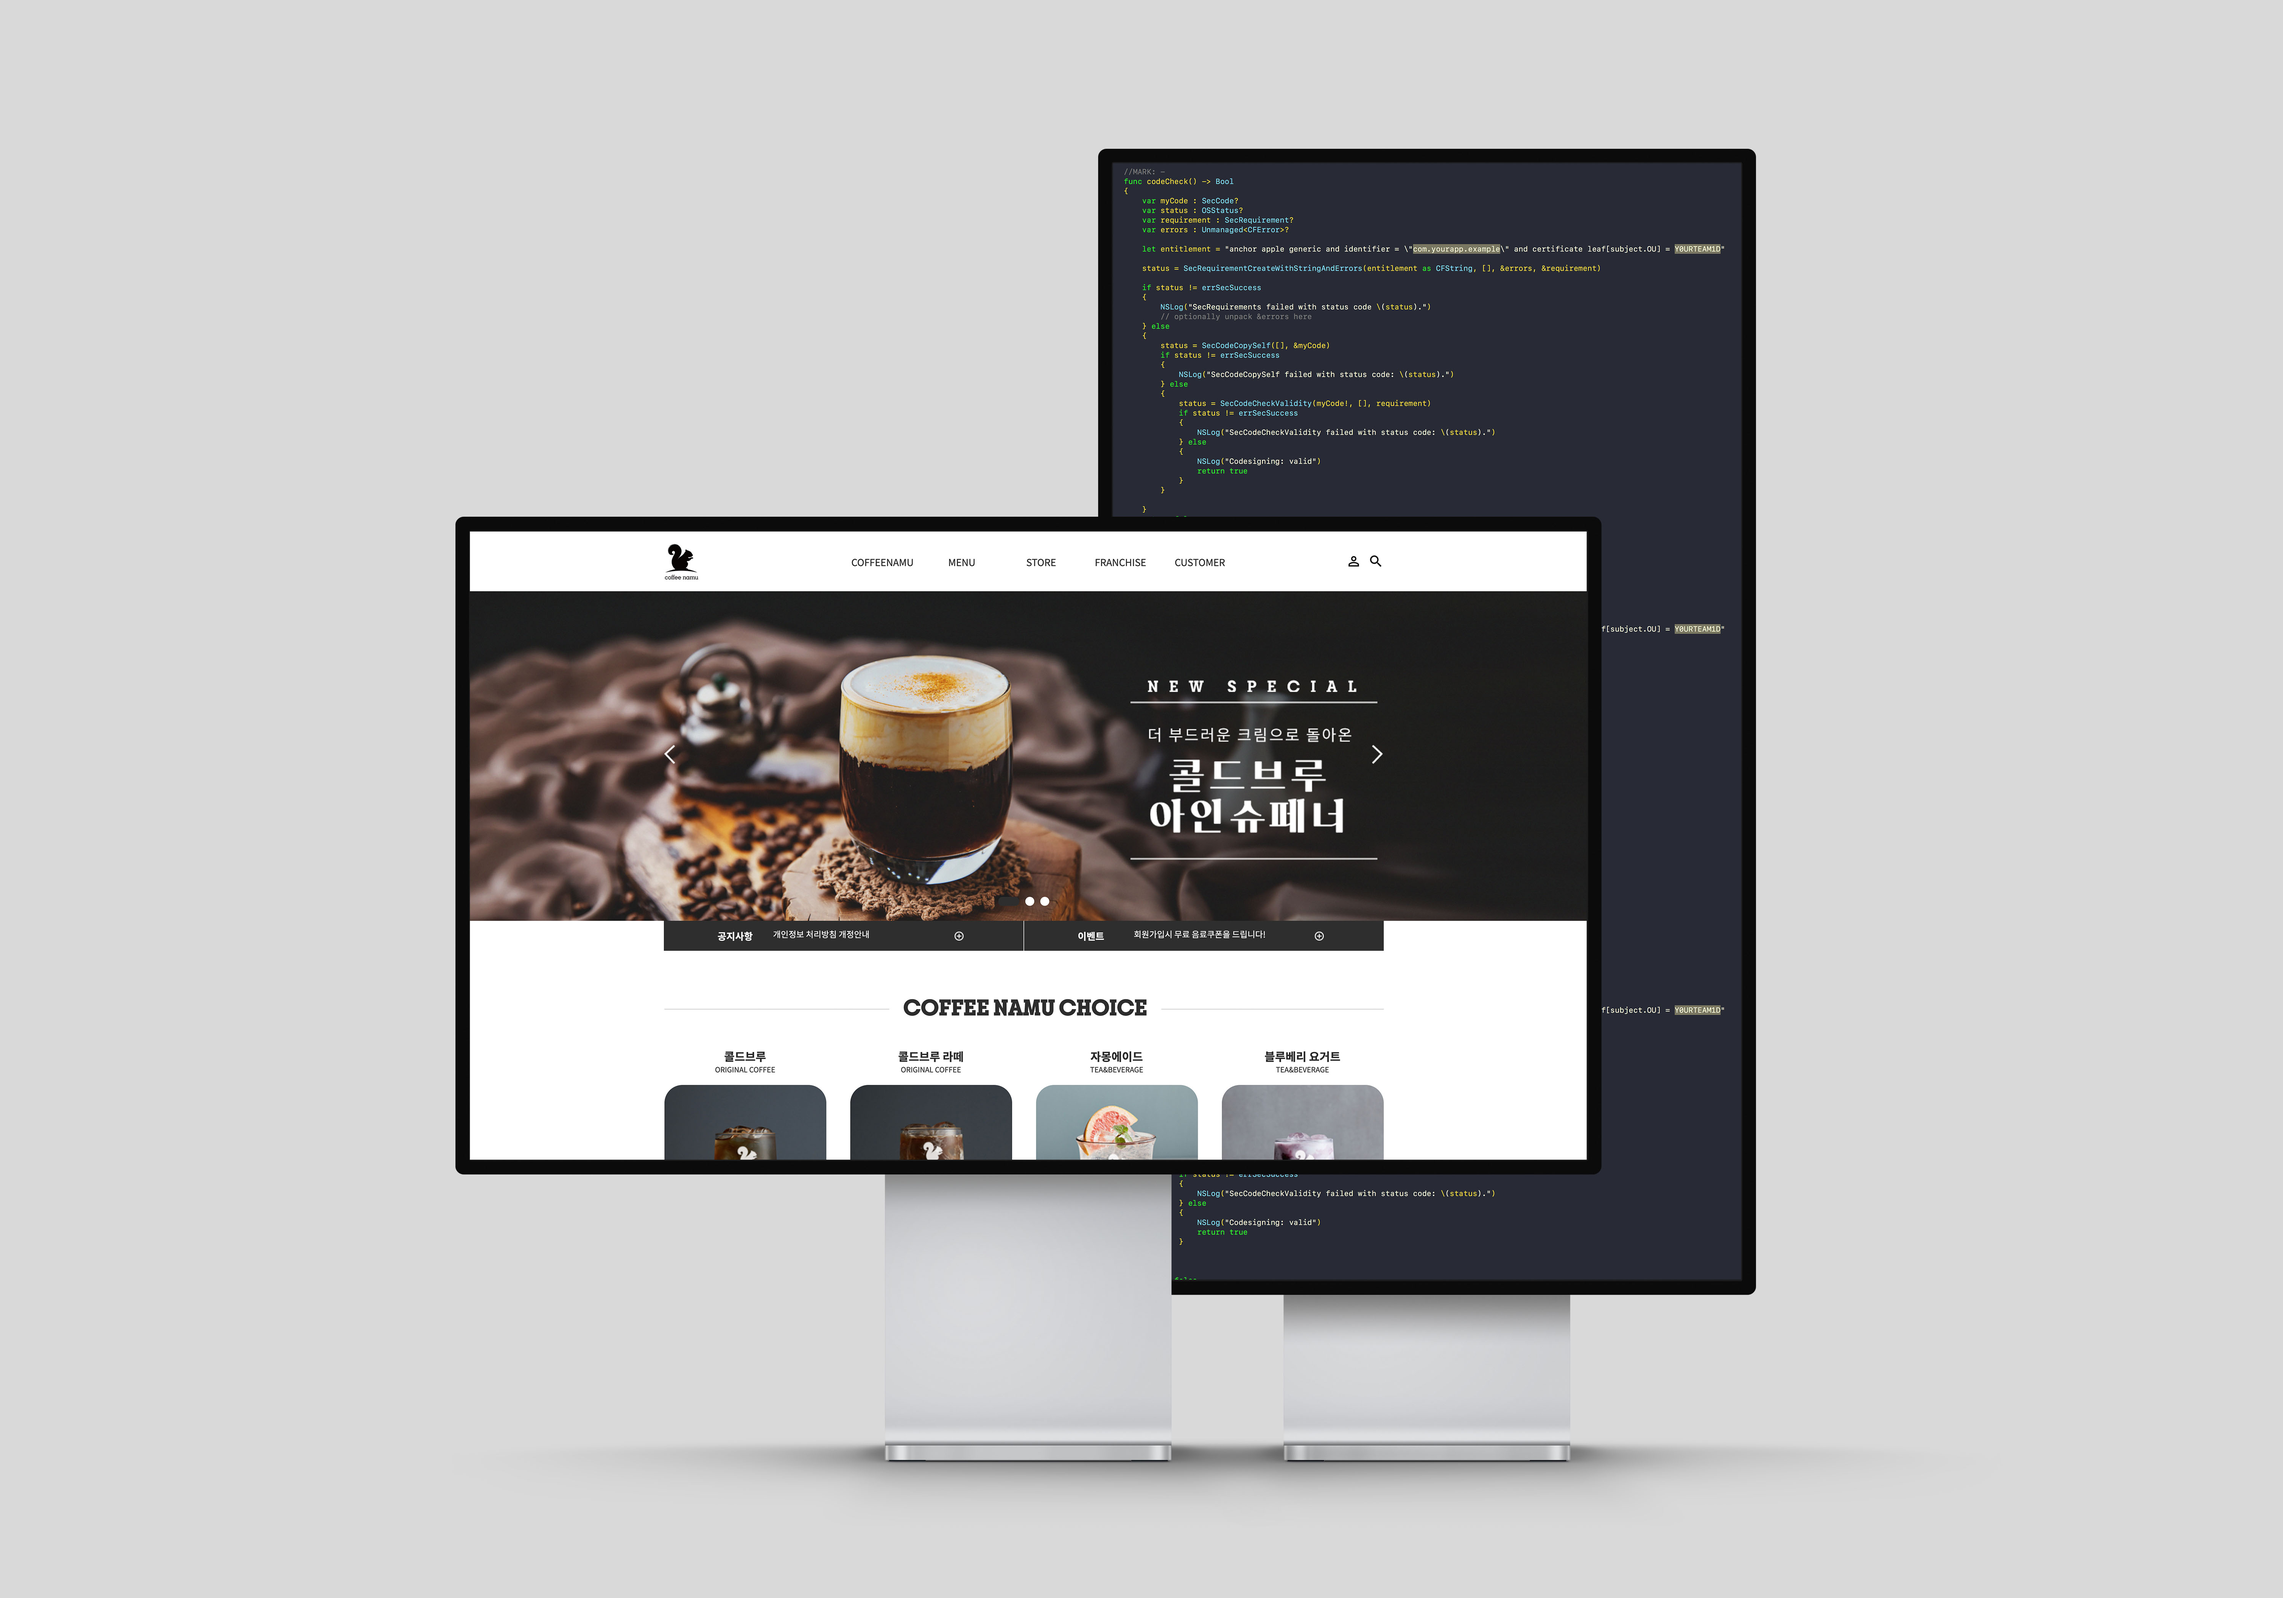
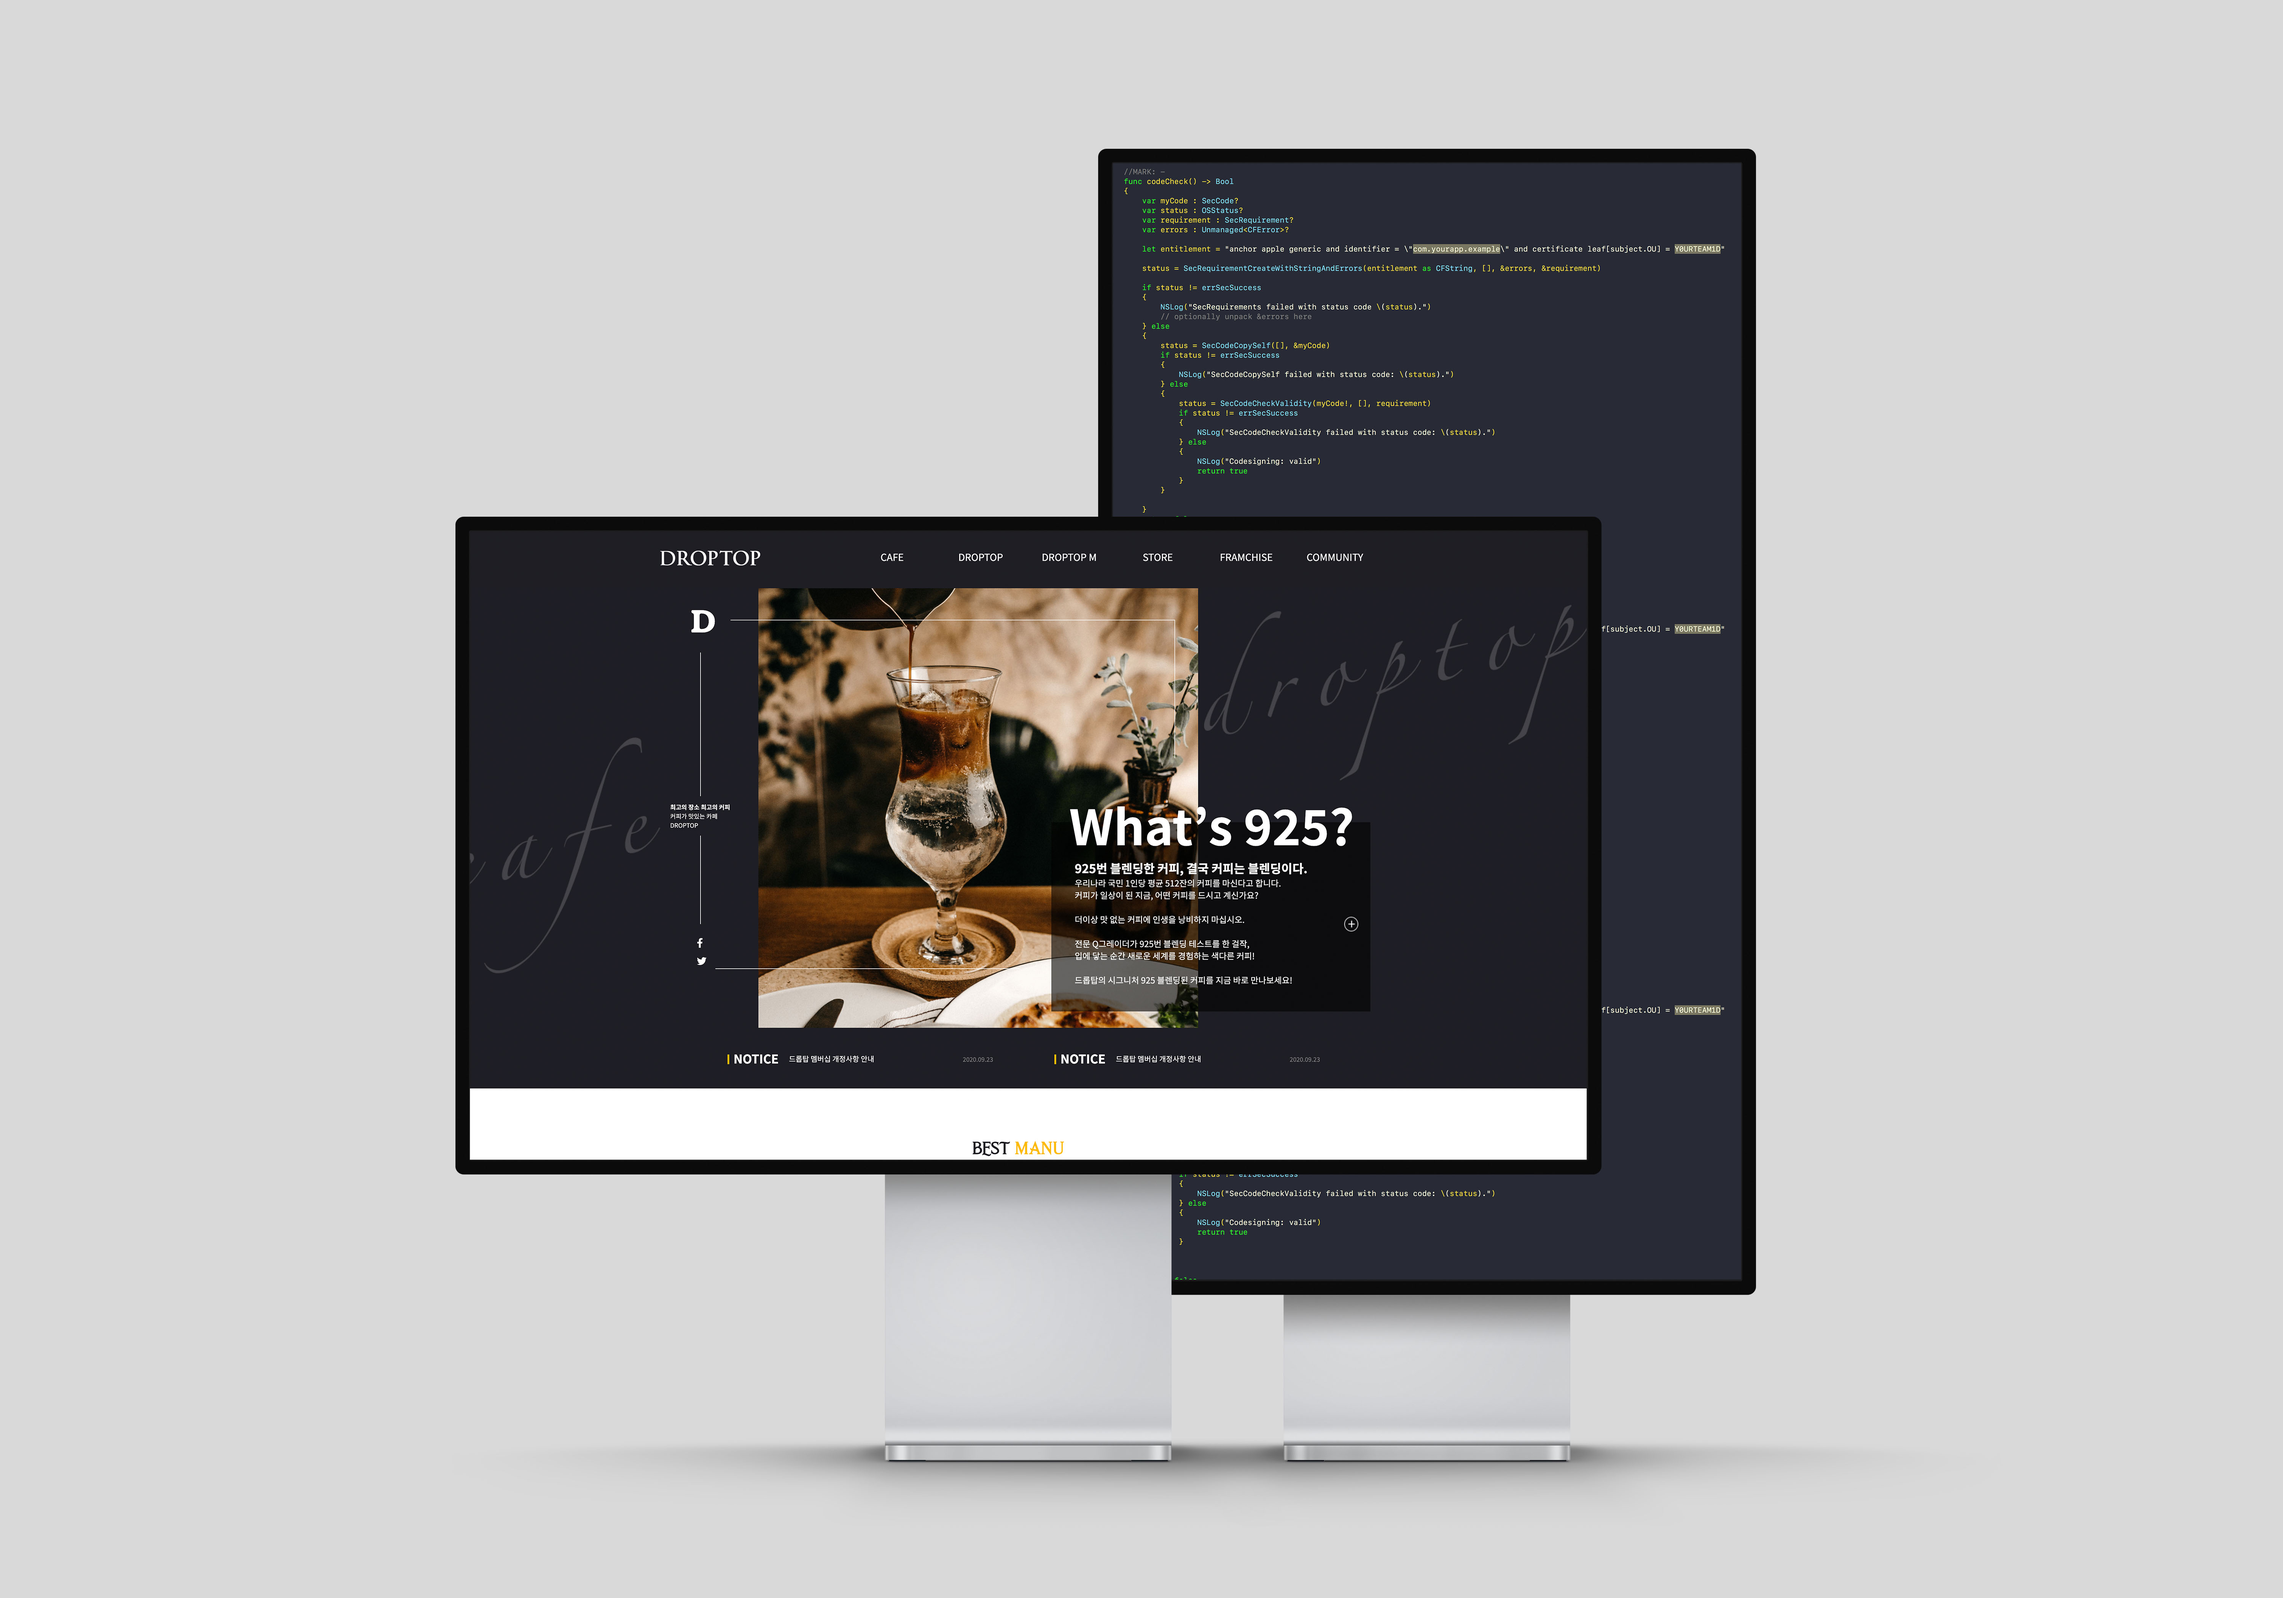
portfolio

Changed region(s): [[0.187, 0.3119, 0.7168, 0.7486]]

diff --git a/index.html b/index.html
@@ -331,19 +331,6 @@ alert("현재 브라우저는 지원하지 않습니다. 크롬 브라우저를 
 
 							<div class="left_box box03">
 								<span class="wTitle">PROJECT 03</span>
-								<span class="bTitle">Coffeenamu SITE</span>
-								<span class="wTxt">
-									커피나무 사이트를 리디자인하여 작업한 웹페이지입니다.
-									HTML5, CSS를 배운지 얼마되지 않아 시작 된 팀프로젝트로
-									반응형디자인은 아니였지만 디자인과 메인페이지 제작을 맡았습니다.<br>
-									Main / sub1-1 / sub1-4 / sub2-1<br>
-									<span class="wTxt_hs">#팀프로젝트 #리뉴얼디자인</span>
-								</span>
-								<a href="https://larmong.github.io/coffeenamu/" target="_blank">SITE VIEW</a>
-							</div>
-
-							<div class="left_box box04">
-								<span class="wTitle">PROJECT 04</span>
 								<span class="bTitle">DROPTOP SITE</span>
 								<span class="wTxt">
 									드롭탑 사이트를 리디자인하여 작업한 웹페이지입니다.
@@ -354,8 +341,8 @@ alert("현재 브라우저는 지원하지 않습니다. 크롬 브라우저를 
 								<a href="https://larmong.github.io/droptop/" target="_blank">SITE VIEW</a>
 							</div>
 
-							<div class="left_box box05">
-								<span class="wTitle">PROJECT 05</span>
+							<div class="left_box box04">
+								<span class="wTitle">PROJECT 04</span>
 								<span class="bTitle">WooriBank SITE</span>
 								<span class="wTxt">
 									우리은행 리뉴얼 사이트입니다. 
@@ -375,13 +362,10 @@ alert("현재 브라우저는 지원하지 않습니다. 크롬 브라우저를 
 									<img src="assets/img/work02.jpg" alt="메가박스">
 								</div>
 								<div>
-									<img src="assets/img/work03.jpg" alt="커피나무">
+									<img src="assets/img/work03.jpg" alt="드롭탑">
 								</div>
 								<div>
-									<img src="assets/img/work04.jpg" alt="드롭탑">
-								</div>
-								<div>
-									<img src="assets/img/work05.jpg" alt="우리은행">
+									<img src="assets/img/work04.jpg" alt="우리은행">
 								</div>
 							</div>
 						</div>
@@ -414,21 +398,8 @@ alert("현재 브라우저는 지원하지 않습니다. 크롬 브라우저를 
 							<a href="https://larmong.github.io/megabox/" target="_blank">SITE VIEW</a>
 						</div>
 						<div class="pbox">
-							<img src="assets/img/work03.jpg" alt="커피나무">
+							<img src="assets/img/work03.jpg" alt="드롭탑">
 							<span class="wTitle">PROJECT03</span>
-							<span class="bTitle">Coffeenamu SITE</span>
-							<span class="wTxt">
-								커피나무 사이트를 리디자인하여 작업한 웹페이지입니다.
-								HTML5, CSS를 배운지 얼마되지 않아 시작 된 팀프로젝트로
-								반응형디자인은 아니였지만 디자인과 메인페이지 제작을 맡았습니다.<br>
-								Main / sub1-1 / sub1-4 / sub2-1<br>
-								<span class="wTxt_hs">#팀프로젝트 #리뉴얼디자인</span>
-							</span>
-							<a href="https://larmong.github.io/coffeenamu/" target="_blank">SITE VIEW</a>
-						</div>
-						<div class="pbox">
-							<img src="assets/img/work04.jpg" alt="드롭탑">
-							<span class="wTitle">PROJECT04</span>
 							<span class="bTitle">DROPTOP SITE</span>
 							<span class="wTxt">
 								드롭탑 사이트를 리디자인하여 작업한 웹페이지입니다.
@@ -439,8 +410,8 @@ alert("현재 브라우저는 지원하지 않습니다. 크롬 브라우저를 
 							<a href="https://larmong.github.io/droptop/" target="_blank">SITE VIEW</a>
 						</div>
 						<div class="pbox">
-							<img src="assets/img/work05.jpg" alt="우리은행">
-							<span class="wTitle">PROJECT 05</span>
+							<img src="assets/img/work04.jpg" alt="우리은행">
+							<span class="wTitle">PROJECT 04</span>
 							<span class="bTitle">WooriBank SITE</span>
 							<span class="wTxt">
 								우리은행 리뉴얼 사이트입니다. 
@@ -460,7 +431,7 @@ alert("현재 브라우저는 지원하지 않습니다. 크롬 브라우저를 
 			<section id="section4">
 				<div class="container">
 					<div class="sec4" 
-                         data-10000 = "transform: translateX(calc(0vw - 0px));"
+                         data-8900 = "transform: translateX(calc(0vw - 0px));"
 						 data-13300 = "transform: translateX(calc(100vw - 5038px));"
 						 >
 						<div class="eff_title">
@@ -551,7 +522,7 @@ alert("현재 브라우저는 지원하지 않습니다. 크롬 브라우저를 
 								     써서 6개의 이미지를 채우고 rotate 와 transformZ 를 사용해 정육면체를 만든 다음 
 								     animation으로  rotateX,Y값을 바꿔 정육면체를 회전 시켰습니다.
 								</div>
-								<a href="https://codepen.io/larmong/pen/eYRGoNY" target="_blank" class="cta">
+								<a href="https://codepen.io/larmong/pen/qBjPwZR" target="_blank" class="cta">
 									<span>CODE VIEW</span>
 									<i class="fa fa-arrow-right" aria-hidden="true"></i>
 								</a>

diff --git a/assets/js/custom.js b/assets/js/custom.js
@@ -105,18 +105,11 @@ $(window).scroll(function(){
 		$("#section3 .box03").fadeIn(500);
 	} 
 
-	if(wScroll > $(".sec3 .right_box > div").eq(3).offset().top + $(window).height()/3 ){
+	if(wScroll > $(".sec3 .right_box > div").eq(3).offset().top + $(window).height()/2 ){
 		$("#section3 .box04").fadeOut(500);
 	} else {
 		$("#section3 .box04").fadeIn(500);
-	}
-
-	if(wScroll > $(".sec3 .right_box > div").eq(4).offset().top + $(window).height()/2 ){
-		$("#section3 .box05").fadeOut(500);
-	} else {
-		$("#section3 .box05").fadeIn(500);
-	}
-
+	} 
 
 	if(wScroll > $("#section6").offset().top - $(window).height()/2 ){
 		$("#section6").addClass("show");
@@ -132,7 +125,7 @@ $(window).scroll(function(){
     }
     if(wScroll > $("#section5").offset().top - $(window).height() ){
         $(".sec4").css( "position", "relative" );
-        $(".sec4").css( "top", "4900px" );
+        $(".sec4").css( "top", "4400px" );
     }else {
         $(".sec4").css( "top", "0px" );
     }

diff --git a/assets/css/style.css b/assets/css/style.css
@@ -271,7 +271,7 @@ body.active #section1 .sec1 .detail {opacity: 1;}
 }
 
 .sec3 .left_box {
-	width: 450px; height: 440px; background: #1a1a1a; margin-left: 60px;
+	width: 450px; height: 490px; background: #1a1a1a; margin-left: 60px;
 	position: absolute; top: 50%; left: 50%; transform: translate(-50%,-50%);
 }
 .sec3 .box01 {z-index: 5;}
